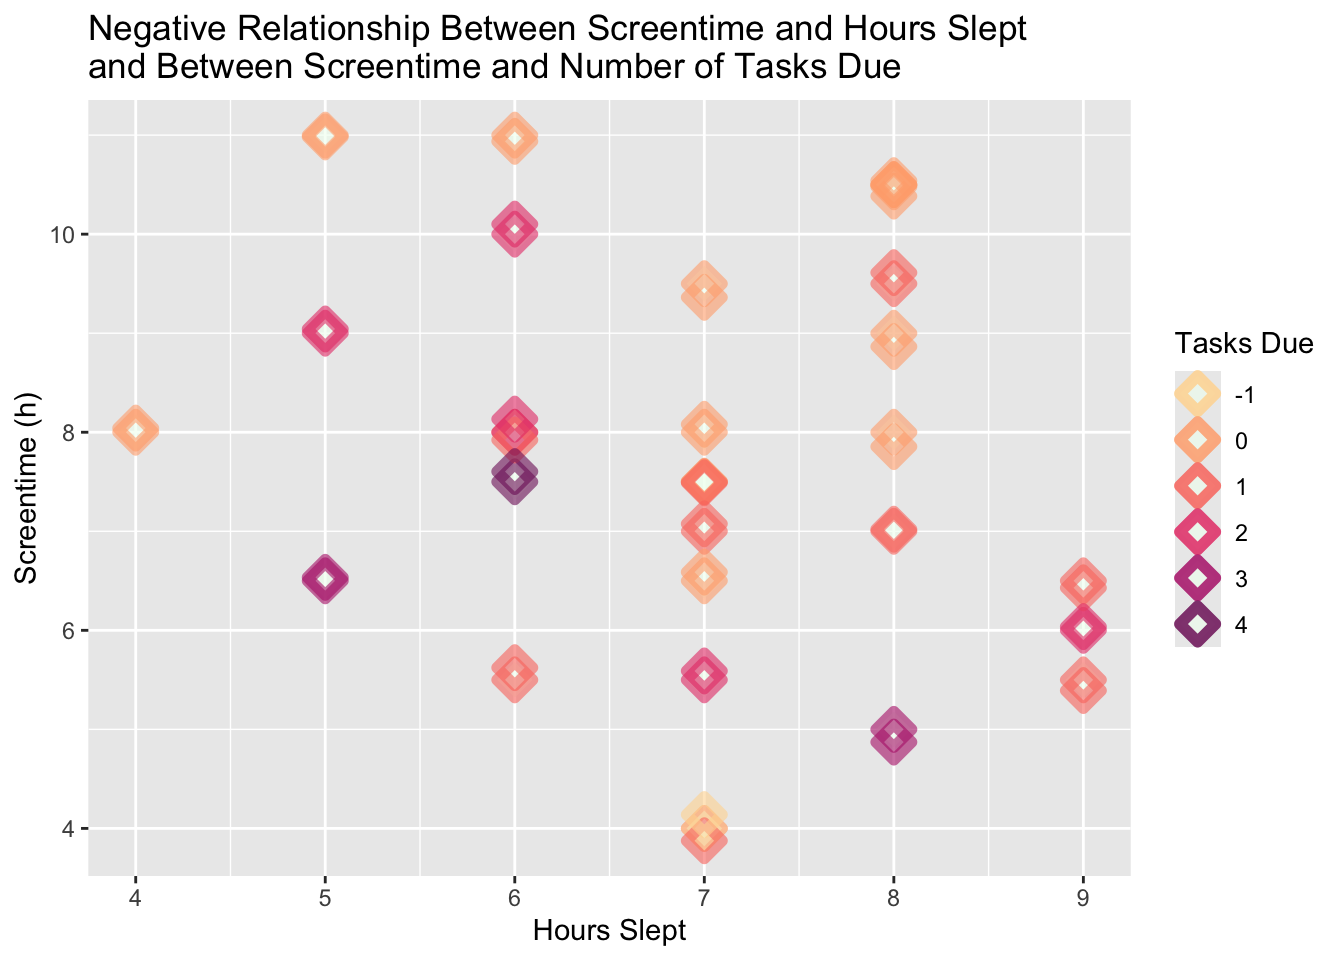
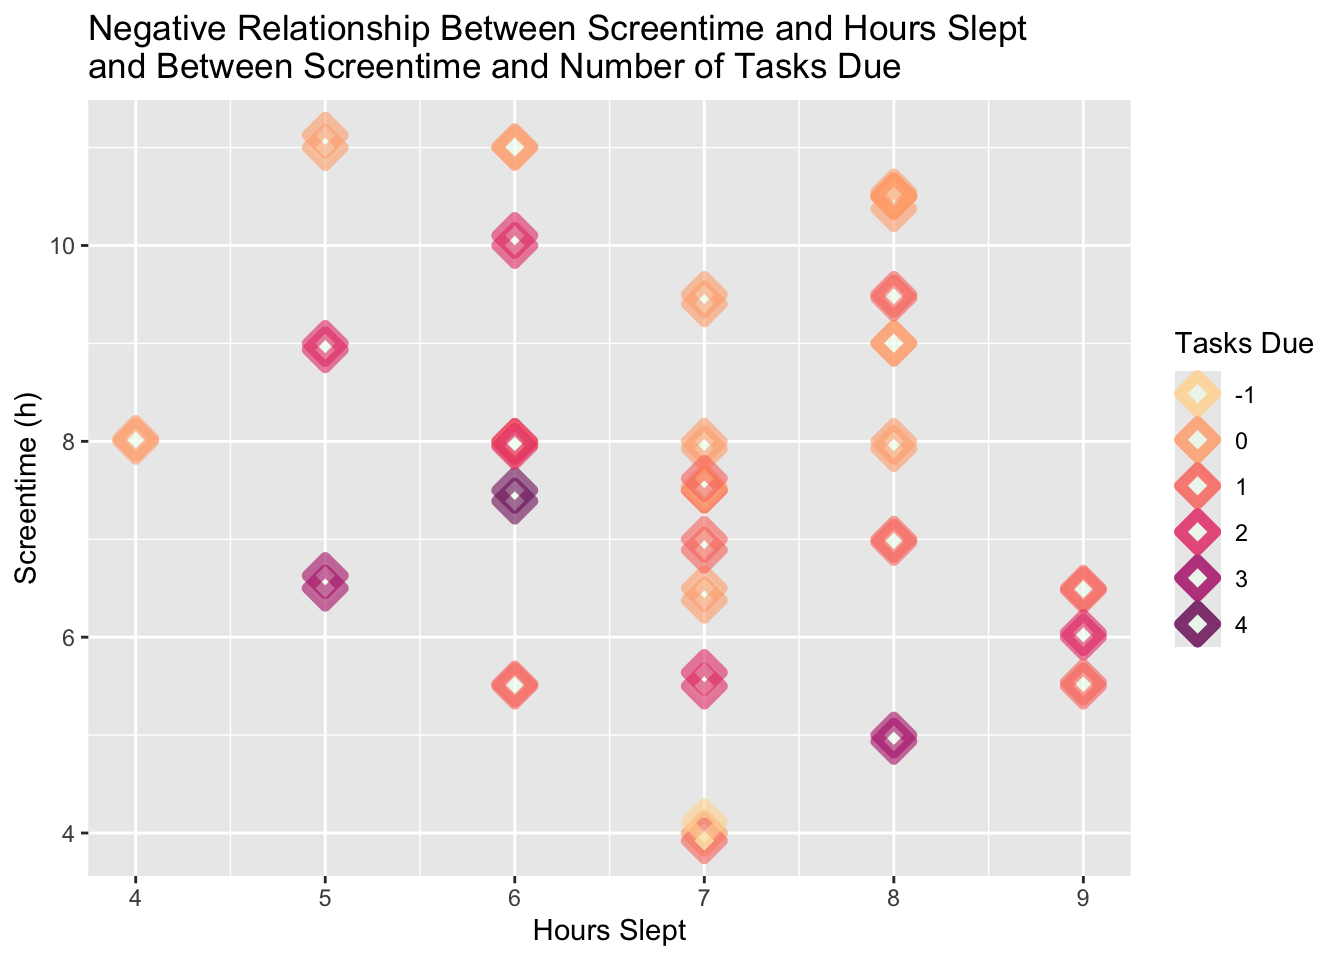
Problem 2 completed!!!!! Thank you to Alexa for responding to my text, she told me to put the images in the "code" folder and not to use the path. not sure how it worked but so happy it did

diff --git a/code/homework-3.html b/code/homework-3.html
@@ -260,7 +260,7 @@ The following object is masked from 'package:purrr':
 <span id="cb12-26"><a href="#cb12-26" aria-hidden="true" tabindex="-1"></a></span>
 <span id="cb12-27"><a href="#cb12-27" aria-hidden="true" tabindex="-1"></a>screentime_cleaner_table <span class="co">#view my table</span></span></code><button title="Copy to Clipboard" class="code-copy-button"><i class="bi"></i></button></pre></div>
 <div class="cell-output-display">
-<div class="tabwid"><style>.cl-50a84646{}.cl-50a258b2{font-family:'Helvetica';font-size:11pt;font-weight:normal;font-style:normal;text-decoration:none;color:rgba(160, 89, 160, 1.00);background-color:transparent;}.cl-50a4cd72{margin:0;text-align:right;border-bottom: 0 solid rgba(0, 0, 0, 1.00);border-top: 0 solid rgba(0, 0, 0, 1.00);border-left: 0 solid rgba(0, 0, 0, 1.00);border-right: 0 solid rgba(0, 0, 0, 1.00);padding-bottom:5pt;padding-top:5pt;padding-left:5pt;padding-right:5pt;line-height: 1;background-color:transparent;}.cl-50a4e3fc{width:2in;background-color:rgba(255, 239, 196, 1.00);vertical-align: middle;border-bottom: 1.5pt solid rgba(248, 160, 126, 1.00);border-top: 1.5pt solid rgba(248, 160, 126, 1.00);border-left: 0 solid rgba(0, 0, 0, 1.00);border-right: 0 solid rgba(0, 0, 0, 1.00);margin-bottom:0;margin-top:0;margin-left:0;margin-right:0;}.cl-50a4e3fd{width:2in;background-color:rgba(255, 239, 196, 1.00);vertical-align: middle;border-bottom: 0 solid rgba(0, 0, 0, 1.00);border-top: 0 solid rgba(0, 0, 0, 1.00);border-left: 0 solid rgba(0, 0, 0, 1.00);border-right: 0 solid rgba(0, 0, 0, 1.00);margin-bottom:0;margin-top:0;margin-left:0;margin-right:0;}.cl-50a4e406{width:2in;background-color:rgba(255, 239, 196, 1.00);vertical-align: middle;border-bottom: 1.5pt solid rgba(248, 160, 126, 1.00);border-top: 0 solid rgba(0, 0, 0, 1.00);border-left: 0 solid rgba(0, 0, 0, 1.00);border-right: 0 solid rgba(0, 0, 0, 1.00);margin-bottom:0;margin-top:0;margin-left:0;margin-right:0;}</style><table data-quarto-disable-processing="true" class="cl-50a84646"><thead><tr style="overflow-wrap:break-word;"><th class="cl-50a4e3fc"><p class="cl-50a4cd72"><span class="cl-50a258b2">Tasks Due</span></p></th><th class="cl-50a4e3fc"><p class="cl-50a4cd72"><span class="cl-50a258b2">Hours Slept</span></p></th><th class="cl-50a4e3fc"><p class="cl-50a4cd72"><span class="cl-50a258b2">Screentime(h)</span></p></th></tr></thead><tbody><tr style="overflow-wrap:break-word;"><td class="cl-50a4e3fd"><p class="cl-50a4cd72"><span class="cl-50a258b2">1</span></p></td><td class="cl-50a4e3fd"><p class="cl-50a4cd72"><span class="cl-50a258b2">7</span></p></td><td class="cl-50a4e3fd"><p class="cl-50a4cd72"><span class="cl-50a258b2">4.0</span></p></td></tr><tr style="overflow-wrap:break-word;"><td class="cl-50a4e3fd"><p class="cl-50a4cd72"><span class="cl-50a258b2">-1</span></p></td><td class="cl-50a4e3fd"><p class="cl-50a4cd72"><span class="cl-50a258b2">7</span></p></td><td class="cl-50a4e3fd"><p class="cl-50a4cd72"><span class="cl-50a258b2">4.0</span></p></td></tr><tr style="overflow-wrap:break-word;"><td class="cl-50a4e3fd"><p class="cl-50a4cd72"><span class="cl-50a258b2">3</span></p></td><td class="cl-50a4e3fd"><p class="cl-50a4cd72"><span class="cl-50a258b2">8</span></p></td><td class="cl-50a4e3fd"><p class="cl-50a4cd72"><span class="cl-50a258b2">5.0</span></p></td></tr><tr style="overflow-wrap:break-word;"><td class="cl-50a4e3fd"><p class="cl-50a4cd72"><span class="cl-50a258b2">1</span></p></td><td class="cl-50a4e3fd"><p class="cl-50a4cd72"><span class="cl-50a258b2">9</span></p></td><td class="cl-50a4e3fd"><p class="cl-50a4cd72"><span class="cl-50a258b2">5.5</span></p></td></tr><tr style="overflow-wrap:break-word;"><td class="cl-50a4e3fd"><p class="cl-50a4cd72"><span class="cl-50a258b2">1</span></p></td><td class="cl-50a4e3fd"><p class="cl-50a4cd72"><span class="cl-50a258b2">6</span></p></td><td class="cl-50a4e3fd"><p class="cl-50a4cd72"><span class="cl-50a258b2">5.5</span></p></td></tr><tr style="overflow-wrap:break-word;"><td class="cl-50a4e3fd"><p class="cl-50a4cd72"><span class="cl-50a258b2">2</span></p></td><td class="cl-50a4e3fd"><p class="cl-50a4cd72"><span class="cl-50a258b2">7</span></p></td><td class="cl-50a4e3fd"><p class="cl-50a4cd72"><span class="cl-50a258b2">5.5</span></p></td></tr><tr style="overflow-wrap:break-word;"><td class="cl-50a4e3fd"><p class="cl-50a4cd72"><span class="cl-50a258b2">2</span></p></td><td class="cl-50a4e3fd"><p class="cl-50a4cd72"><span class="cl-50a258b2">9</span></p></td><td class="cl-50a4e3fd"><p class="cl-50a4cd72"><span class="cl-50a258b2">6.0</span></p></td></tr><tr style="overflow-wrap:break-word;"><td class="cl-50a4e3fd"><p class="cl-50a4cd72"><span class="cl-50a258b2">0</span></p></td><td class="cl-50a4e3fd"><p class="cl-50a4cd72"><span class="cl-50a258b2">7</span></p></td><td class="cl-50a4e3fd"><p class="cl-50a4cd72"><span class="cl-50a258b2">6.5</span></p></td></tr><tr style="overflow-wrap:break-word;"><td class="cl-50a4e3fd"><p class="cl-50a4cd72"><span class="cl-50a258b2">3</span></p></td><td class="cl-50a4e3fd"><p class="cl-50a4cd72"><span class="cl-50a258b2">5</span></p></td><td class="cl-50a4e3fd"><p class="cl-50a4cd72"><span class="cl-50a258b2">6.5</span></p></td></tr><tr style="overflow-wrap:break-word;"><td class="cl-50a4e3fd"><p class="cl-50a4cd72"><span class="cl-50a258b2">1</span></p></td><td class="cl-50a4e3fd"><p class="cl-50a4cd72"><span class="cl-50a258b2">9</span></p></td><td class="cl-50a4e3fd"><p class="cl-50a4cd72"><span class="cl-50a258b2">6.5</span></p></td></tr><tr style="overflow-wrap:break-word;"><td class="cl-50a4e3fd"><p class="cl-50a4cd72"><span class="cl-50a258b2">1</span></p></td><td class="cl-50a4e3fd"><p class="cl-50a4cd72"><span class="cl-50a258b2">8</span></p></td><td class="cl-50a4e3fd"><p class="cl-50a4cd72"><span class="cl-50a258b2">7.0</span></p></td></tr><tr style="overflow-wrap:break-word;"><td class="cl-50a4e3fd"><p class="cl-50a4cd72"><span class="cl-50a258b2">1</span></p></td><td class="cl-50a4e3fd"><p class="cl-50a4cd72"><span class="cl-50a258b2">7</span></p></td><td class="cl-50a4e3fd"><p class="cl-50a4cd72"><span class="cl-50a258b2">7.0</span></p></td></tr><tr style="overflow-wrap:break-word;"><td class="cl-50a4e3fd"><p class="cl-50a4cd72"><span class="cl-50a258b2">4</span></p></td><td class="cl-50a4e3fd"><p class="cl-50a4cd72"><span class="cl-50a258b2">6</span></p></td><td class="cl-50a4e3fd"><p class="cl-50a4cd72"><span class="cl-50a258b2">7.5</span></p></td></tr><tr style="overflow-wrap:break-word;"><td class="cl-50a4e3fd"><p class="cl-50a4cd72"><span class="cl-50a258b2">0</span></p></td><td class="cl-50a4e3fd"><p class="cl-50a4cd72"><span class="cl-50a258b2">7</span></p></td><td class="cl-50a4e3fd"><p class="cl-50a4cd72"><span class="cl-50a258b2">7.5</span></p></td></tr><tr style="overflow-wrap:break-word;"><td class="cl-50a4e3fd"><p class="cl-50a4cd72"><span class="cl-50a258b2">1</span></p></td><td class="cl-50a4e3fd"><p class="cl-50a4cd72"><span class="cl-50a258b2">7</span></p></td><td class="cl-50a4e3fd"><p class="cl-50a4cd72"><span class="cl-50a258b2">7.5</span></p></td></tr><tr style="overflow-wrap:break-word;"><td class="cl-50a4e3fd"><p class="cl-50a4cd72"><span class="cl-50a258b2">0</span></p></td><td class="cl-50a4e3fd"><p class="cl-50a4cd72"><span class="cl-50a258b2">7</span></p></td><td class="cl-50a4e3fd"><p class="cl-50a4cd72"><span class="cl-50a258b2">8.0</span></p></td></tr><tr style="overflow-wrap:break-word;"><td class="cl-50a4e3fd"><p class="cl-50a4cd72"><span class="cl-50a258b2">1</span></p></td><td class="cl-50a4e3fd"><p class="cl-50a4cd72"><span class="cl-50a258b2">6</span></p></td><td class="cl-50a4e3fd"><p class="cl-50a4cd72"><span class="cl-50a258b2">8.0</span></p></td></tr><tr style="overflow-wrap:break-word;"><td class="cl-50a4e3fd"><p class="cl-50a4cd72"><span class="cl-50a258b2">2</span></p></td><td class="cl-50a4e3fd"><p class="cl-50a4cd72"><span class="cl-50a258b2">6</span></p></td><td class="cl-50a4e3fd"><p class="cl-50a4cd72"><span class="cl-50a258b2">8.0</span></p></td></tr><tr style="overflow-wrap:break-word;"><td class="cl-50a4e3fd"><p class="cl-50a4cd72"><span class="cl-50a258b2">0</span></p></td><td class="cl-50a4e3fd"><p class="cl-50a4cd72"><span class="cl-50a258b2">8</span></p></td><td class="cl-50a4e3fd"><p class="cl-50a4cd72"><span class="cl-50a258b2">8.0</span></p></td></tr><tr style="overflow-wrap:break-word;"><td class="cl-50a4e3fd"><p class="cl-50a4cd72"><span class="cl-50a258b2">0</span></p></td><td class="cl-50a4e3fd"><p class="cl-50a4cd72"><span class="cl-50a258b2">4</span></p></td><td class="cl-50a4e3fd"><p class="cl-50a4cd72"><span class="cl-50a258b2">8.0</span></p></td></tr><tr style="overflow-wrap:break-word;"><td class="cl-50a4e3fd"><p class="cl-50a4cd72"><span class="cl-50a258b2">0</span></p></td><td class="cl-50a4e3fd"><p class="cl-50a4cd72"><span class="cl-50a258b2">8</span></p></td><td class="cl-50a4e3fd"><p class="cl-50a4cd72"><span class="cl-50a258b2">9.0</span></p></td></tr><tr style="overflow-wrap:break-word;"><td class="cl-50a4e3fd"><p class="cl-50a4cd72"><span class="cl-50a258b2">2</span></p></td><td class="cl-50a4e3fd"><p class="cl-50a4cd72"><span class="cl-50a258b2">5</span></p></td><td class="cl-50a4e3fd"><p class="cl-50a4cd72"><span class="cl-50a258b2">9.0</span></p></td></tr><tr style="overflow-wrap:break-word;"><td class="cl-50a4e3fd"><p class="cl-50a4cd72"><span class="cl-50a258b2">0</span></p></td><td class="cl-50a4e3fd"><p class="cl-50a4cd72"><span class="cl-50a258b2">7</span></p></td><td class="cl-50a4e3fd"><p class="cl-50a4cd72"><span class="cl-50a258b2">9.5</span></p></td></tr><tr style="overflow-wrap:break-word;"><td class="cl-50a4e3fd"><p class="cl-50a4cd72"><span class="cl-50a258b2">1</span></p></td><td class="cl-50a4e3fd"><p class="cl-50a4cd72"><span class="cl-50a258b2">8</span></p></td><td class="cl-50a4e3fd"><p class="cl-50a4cd72"><span class="cl-50a258b2">9.5</span></p></td></tr><tr style="overflow-wrap:break-word;"><td class="cl-50a4e3fd"><p class="cl-50a4cd72"><span class="cl-50a258b2">2</span></p></td><td class="cl-50a4e3fd"><p class="cl-50a4cd72"><span class="cl-50a258b2">6</span></p></td><td class="cl-50a4e3fd"><p class="cl-50a4cd72"><span class="cl-50a258b2">10.0</span></p></td></tr><tr style="overflow-wrap:break-word;"><td class="cl-50a4e3fd"><p class="cl-50a4cd72"><span class="cl-50a258b2">0</span></p></td><td class="cl-50a4e3fd"><p class="cl-50a4cd72"><span class="cl-50a258b2">8</span></p></td><td class="cl-50a4e3fd"><p class="cl-50a4cd72"><span class="cl-50a258b2">10.5</span></p></td></tr><tr style="overflow-wrap:break-word;"><td class="cl-50a4e3fd"><p class="cl-50a4cd72"><span class="cl-50a258b2">0</span></p></td><td class="cl-50a4e3fd"><p class="cl-50a4cd72"><span class="cl-50a258b2">8</span></p></td><td class="cl-50a4e3fd"><p class="cl-50a4cd72"><span class="cl-50a258b2">10.5</span></p></td></tr><tr style="overflow-wrap:break-word;"><td class="cl-50a4e3fd"><p class="cl-50a4cd72"><span class="cl-50a258b2">0</span></p></td><td class="cl-50a4e3fd"><p class="cl-50a4cd72"><span class="cl-50a258b2">8</span></p></td><td class="cl-50a4e3fd"><p class="cl-50a4cd72"><span class="cl-50a258b2">10.5</span></p></td></tr><tr style="overflow-wrap:break-word;"><td class="cl-50a4e3fd"><p class="cl-50a4cd72"><span class="cl-50a258b2">0</span></p></td><td class="cl-50a4e3fd"><p class="cl-50a4cd72"><span class="cl-50a258b2">6</span></p></td><td class="cl-50a4e3fd"><p class="cl-50a4cd72"><span class="cl-50a258b2">11.0</span></p></td></tr><tr style="overflow-wrap:break-word;"><td class="cl-50a4e406"><p class="cl-50a4cd72"><span class="cl-50a258b2">0</span></p></td><td class="cl-50a4e406"><p class="cl-50a4cd72"><span class="cl-50a258b2">5</span></p></td><td class="cl-50a4e406"><p class="cl-50a4cd72"><span class="cl-50a258b2">11.0</span></p></td></tr></tbody></table></div>
+<div class="tabwid"><style>.cl-89f766be{}.cl-89f21358{font-family:'Helvetica';font-size:11pt;font-weight:normal;font-style:normal;text-decoration:none;color:rgba(160, 89, 160, 1.00);background-color:transparent;}.cl-89f43bce{margin:0;text-align:right;border-bottom: 0 solid rgba(0, 0, 0, 1.00);border-top: 0 solid rgba(0, 0, 0, 1.00);border-left: 0 solid rgba(0, 0, 0, 1.00);border-right: 0 solid rgba(0, 0, 0, 1.00);padding-bottom:5pt;padding-top:5pt;padding-left:5pt;padding-right:5pt;line-height: 1;background-color:transparent;}.cl-89f450dc{width:2in;background-color:rgba(255, 239, 196, 1.00);vertical-align: middle;border-bottom: 1.5pt solid rgba(248, 160, 126, 1.00);border-top: 1.5pt solid rgba(248, 160, 126, 1.00);border-left: 0 solid rgba(0, 0, 0, 1.00);border-right: 0 solid rgba(0, 0, 0, 1.00);margin-bottom:0;margin-top:0;margin-left:0;margin-right:0;}.cl-89f450dd{width:2in;background-color:rgba(255, 239, 196, 1.00);vertical-align: middle;border-bottom: 0 solid rgba(0, 0, 0, 1.00);border-top: 0 solid rgba(0, 0, 0, 1.00);border-left: 0 solid rgba(0, 0, 0, 1.00);border-right: 0 solid rgba(0, 0, 0, 1.00);margin-bottom:0;margin-top:0;margin-left:0;margin-right:0;}.cl-89f450de{width:2in;background-color:rgba(255, 239, 196, 1.00);vertical-align: middle;border-bottom: 1.5pt solid rgba(248, 160, 126, 1.00);border-top: 0 solid rgba(0, 0, 0, 1.00);border-left: 0 solid rgba(0, 0, 0, 1.00);border-right: 0 solid rgba(0, 0, 0, 1.00);margin-bottom:0;margin-top:0;margin-left:0;margin-right:0;}</style><table data-quarto-disable-processing="true" class="cl-89f766be"><thead><tr style="overflow-wrap:break-word;"><th class="cl-89f450dc"><p class="cl-89f43bce"><span class="cl-89f21358">Tasks Due</span></p></th><th class="cl-89f450dc"><p class="cl-89f43bce"><span class="cl-89f21358">Hours Slept</span></p></th><th class="cl-89f450dc"><p class="cl-89f43bce"><span class="cl-89f21358">Screentime(h)</span></p></th></tr></thead><tbody><tr style="overflow-wrap:break-word;"><td class="cl-89f450dd"><p class="cl-89f43bce"><span class="cl-89f21358">1</span></p></td><td class="cl-89f450dd"><p class="cl-89f43bce"><span class="cl-89f21358">7</span></p></td><td class="cl-89f450dd"><p class="cl-89f43bce"><span class="cl-89f21358">4.0</span></p></td></tr><tr style="overflow-wrap:break-word;"><td class="cl-89f450dd"><p class="cl-89f43bce"><span class="cl-89f21358">-1</span></p></td><td class="cl-89f450dd"><p class="cl-89f43bce"><span class="cl-89f21358">7</span></p></td><td class="cl-89f450dd"><p class="cl-89f43bce"><span class="cl-89f21358">4.0</span></p></td></tr><tr style="overflow-wrap:break-word;"><td class="cl-89f450dd"><p class="cl-89f43bce"><span class="cl-89f21358">3</span></p></td><td class="cl-89f450dd"><p class="cl-89f43bce"><span class="cl-89f21358">8</span></p></td><td class="cl-89f450dd"><p class="cl-89f43bce"><span class="cl-89f21358">5.0</span></p></td></tr><tr style="overflow-wrap:break-word;"><td class="cl-89f450dd"><p class="cl-89f43bce"><span class="cl-89f21358">1</span></p></td><td class="cl-89f450dd"><p class="cl-89f43bce"><span class="cl-89f21358">9</span></p></td><td class="cl-89f450dd"><p class="cl-89f43bce"><span class="cl-89f21358">5.5</span></p></td></tr><tr style="overflow-wrap:break-word;"><td class="cl-89f450dd"><p class="cl-89f43bce"><span class="cl-89f21358">1</span></p></td><td class="cl-89f450dd"><p class="cl-89f43bce"><span class="cl-89f21358">6</span></p></td><td class="cl-89f450dd"><p class="cl-89f43bce"><span class="cl-89f21358">5.5</span></p></td></tr><tr style="overflow-wrap:break-word;"><td class="cl-89f450dd"><p class="cl-89f43bce"><span class="cl-89f21358">2</span></p></td><td class="cl-89f450dd"><p class="cl-89f43bce"><span class="cl-89f21358">7</span></p></td><td class="cl-89f450dd"><p class="cl-89f43bce"><span class="cl-89f21358">5.5</span></p></td></tr><tr style="overflow-wrap:break-word;"><td class="cl-89f450dd"><p class="cl-89f43bce"><span class="cl-89f21358">2</span></p></td><td class="cl-89f450dd"><p class="cl-89f43bce"><span class="cl-89f21358">9</span></p></td><td class="cl-89f450dd"><p class="cl-89f43bce"><span class="cl-89f21358">6.0</span></p></td></tr><tr style="overflow-wrap:break-word;"><td class="cl-89f450dd"><p class="cl-89f43bce"><span class="cl-89f21358">0</span></p></td><td class="cl-89f450dd"><p class="cl-89f43bce"><span class="cl-89f21358">7</span></p></td><td class="cl-89f450dd"><p class="cl-89f43bce"><span class="cl-89f21358">6.5</span></p></td></tr><tr style="overflow-wrap:break-word;"><td class="cl-89f450dd"><p class="cl-89f43bce"><span class="cl-89f21358">3</span></p></td><td class="cl-89f450dd"><p class="cl-89f43bce"><span class="cl-89f21358">5</span></p></td><td class="cl-89f450dd"><p class="cl-89f43bce"><span class="cl-89f21358">6.5</span></p></td></tr><tr style="overflow-wrap:break-word;"><td class="cl-89f450dd"><p class="cl-89f43bce"><span class="cl-89f21358">1</span></p></td><td class="cl-89f450dd"><p class="cl-89f43bce"><span class="cl-89f21358">9</span></p></td><td class="cl-89f450dd"><p class="cl-89f43bce"><span class="cl-89f21358">6.5</span></p></td></tr><tr style="overflow-wrap:break-word;"><td class="cl-89f450dd"><p class="cl-89f43bce"><span class="cl-89f21358">1</span></p></td><td class="cl-89f450dd"><p class="cl-89f43bce"><span class="cl-89f21358">8</span></p></td><td class="cl-89f450dd"><p class="cl-89f43bce"><span class="cl-89f21358">7.0</span></p></td></tr><tr style="overflow-wrap:break-word;"><td class="cl-89f450dd"><p class="cl-89f43bce"><span class="cl-89f21358">1</span></p></td><td class="cl-89f450dd"><p class="cl-89f43bce"><span class="cl-89f21358">7</span></p></td><td class="cl-89f450dd"><p class="cl-89f43bce"><span class="cl-89f21358">7.0</span></p></td></tr><tr style="overflow-wrap:break-word;"><td class="cl-89f450dd"><p class="cl-89f43bce"><span class="cl-89f21358">4</span></p></td><td class="cl-89f450dd"><p class="cl-89f43bce"><span class="cl-89f21358">6</span></p></td><td class="cl-89f450dd"><p class="cl-89f43bce"><span class="cl-89f21358">7.5</span></p></td></tr><tr style="overflow-wrap:break-word;"><td class="cl-89f450dd"><p class="cl-89f43bce"><span class="cl-89f21358">0</span></p></td><td class="cl-89f450dd"><p class="cl-89f43bce"><span class="cl-89f21358">7</span></p></td><td class="cl-89f450dd"><p class="cl-89f43bce"><span class="cl-89f21358">7.5</span></p></td></tr><tr style="overflow-wrap:break-word;"><td class="cl-89f450dd"><p class="cl-89f43bce"><span class="cl-89f21358">1</span></p></td><td class="cl-89f450dd"><p class="cl-89f43bce"><span class="cl-89f21358">7</span></p></td><td class="cl-89f450dd"><p class="cl-89f43bce"><span class="cl-89f21358">7.5</span></p></td></tr><tr style="overflow-wrap:break-word;"><td class="cl-89f450dd"><p class="cl-89f43bce"><span class="cl-89f21358">0</span></p></td><td class="cl-89f450dd"><p class="cl-89f43bce"><span class="cl-89f21358">7</span></p></td><td class="cl-89f450dd"><p class="cl-89f43bce"><span class="cl-89f21358">8.0</span></p></td></tr><tr style="overflow-wrap:break-word;"><td class="cl-89f450dd"><p class="cl-89f43bce"><span class="cl-89f21358">1</span></p></td><td class="cl-89f450dd"><p class="cl-89f43bce"><span class="cl-89f21358">6</span></p></td><td class="cl-89f450dd"><p class="cl-89f43bce"><span class="cl-89f21358">8.0</span></p></td></tr><tr style="overflow-wrap:break-word;"><td class="cl-89f450dd"><p class="cl-89f43bce"><span class="cl-89f21358">2</span></p></td><td class="cl-89f450dd"><p class="cl-89f43bce"><span class="cl-89f21358">6</span></p></td><td class="cl-89f450dd"><p class="cl-89f43bce"><span class="cl-89f21358">8.0</span></p></td></tr><tr style="overflow-wrap:break-word;"><td class="cl-89f450dd"><p class="cl-89f43bce"><span class="cl-89f21358">0</span></p></td><td class="cl-89f450dd"><p class="cl-89f43bce"><span class="cl-89f21358">8</span></p></td><td class="cl-89f450dd"><p class="cl-89f43bce"><span class="cl-89f21358">8.0</span></p></td></tr><tr style="overflow-wrap:break-word;"><td class="cl-89f450dd"><p class="cl-89f43bce"><span class="cl-89f21358">0</span></p></td><td class="cl-89f450dd"><p class="cl-89f43bce"><span class="cl-89f21358">4</span></p></td><td class="cl-89f450dd"><p class="cl-89f43bce"><span class="cl-89f21358">8.0</span></p></td></tr><tr style="overflow-wrap:break-word;"><td class="cl-89f450dd"><p class="cl-89f43bce"><span class="cl-89f21358">0</span></p></td><td class="cl-89f450dd"><p class="cl-89f43bce"><span class="cl-89f21358">8</span></p></td><td class="cl-89f450dd"><p class="cl-89f43bce"><span class="cl-89f21358">9.0</span></p></td></tr><tr style="overflow-wrap:break-word;"><td class="cl-89f450dd"><p class="cl-89f43bce"><span class="cl-89f21358">2</span></p></td><td class="cl-89f450dd"><p class="cl-89f43bce"><span class="cl-89f21358">5</span></p></td><td class="cl-89f450dd"><p class="cl-89f43bce"><span class="cl-89f21358">9.0</span></p></td></tr><tr style="overflow-wrap:break-word;"><td class="cl-89f450dd"><p class="cl-89f43bce"><span class="cl-89f21358">0</span></p></td><td class="cl-89f450dd"><p class="cl-89f43bce"><span class="cl-89f21358">7</span></p></td><td class="cl-89f450dd"><p class="cl-89f43bce"><span class="cl-89f21358">9.5</span></p></td></tr><tr style="overflow-wrap:break-word;"><td class="cl-89f450dd"><p class="cl-89f43bce"><span class="cl-89f21358">1</span></p></td><td class="cl-89f450dd"><p class="cl-89f43bce"><span class="cl-89f21358">8</span></p></td><td class="cl-89f450dd"><p class="cl-89f43bce"><span class="cl-89f21358">9.5</span></p></td></tr><tr style="overflow-wrap:break-word;"><td class="cl-89f450dd"><p class="cl-89f43bce"><span class="cl-89f21358">2</span></p></td><td class="cl-89f450dd"><p class="cl-89f43bce"><span class="cl-89f21358">6</span></p></td><td class="cl-89f450dd"><p class="cl-89f43bce"><span class="cl-89f21358">10.0</span></p></td></tr><tr style="overflow-wrap:break-word;"><td class="cl-89f450dd"><p class="cl-89f43bce"><span class="cl-89f21358">0</span></p></td><td class="cl-89f450dd"><p class="cl-89f43bce"><span class="cl-89f21358">8</span></p></td><td class="cl-89f450dd"><p class="cl-89f43bce"><span class="cl-89f21358">10.5</span></p></td></tr><tr style="overflow-wrap:break-word;"><td class="cl-89f450dd"><p class="cl-89f43bce"><span class="cl-89f21358">0</span></p></td><td class="cl-89f450dd"><p class="cl-89f43bce"><span class="cl-89f21358">8</span></p></td><td class="cl-89f450dd"><p class="cl-89f43bce"><span class="cl-89f21358">10.5</span></p></td></tr><tr style="overflow-wrap:break-word;"><td class="cl-89f450dd"><p class="cl-89f43bce"><span class="cl-89f21358">0</span></p></td><td class="cl-89f450dd"><p class="cl-89f43bce"><span class="cl-89f21358">8</span></p></td><td class="cl-89f450dd"><p class="cl-89f43bce"><span class="cl-89f21358">10.5</span></p></td></tr><tr style="overflow-wrap:break-word;"><td class="cl-89f450dd"><p class="cl-89f43bce"><span class="cl-89f21358">0</span></p></td><td class="cl-89f450dd"><p class="cl-89f43bce"><span class="cl-89f21358">6</span></p></td><td class="cl-89f450dd"><p class="cl-89f43bce"><span class="cl-89f21358">11.0</span></p></td></tr><tr style="overflow-wrap:break-word;"><td class="cl-89f450de"><p class="cl-89f43bce"><span class="cl-89f21358">0</span></p></td><td class="cl-89f450de"><p class="cl-89f43bce"><span class="cl-89f21358">5</span></p></td><td class="cl-89f450de"><p class="cl-89f43bce"><span class="cl-89f21358">11.0</span></p></td></tr></tbody></table></div>
 </div>
 </div>
 </section>
@@ -272,13 +272,16 @@ The following object is masked from 'package:purrr':
 </section>
 <section id="b.-sketch-of-my-idea" class="level2">
 <h2 class="anchored" data-anchor-id="b.-sketch-of-my-idea">b. Sketch of my idea</h2>
-<p>I did it on my iPad instead of on paper because I need colors and I only have highlighters.</p>
 <div class="quarto-figure quarto-figure-center">
 <figure class="figure">
 <p><img src="sketch.jpg" class="img-fluid figure-img"></p>
 <figcaption>Screentime Sketch</figcaption>
 </figure>
 </div>
+</section>
+<section id="c.-draft-of-my-idea" class="level2">
+<h2 class="anchored" data-anchor-id="c.-draft-of-my-idea">c.&nbsp;Draft of my idea</h2>
+<p><img src="draft.jpg" class="img-fluid" alt="Screentime Draft"> ## d.&nbsp;Artist Statement</p>
 </section>
 </section>
 <section id="problem-3" class="level1">
